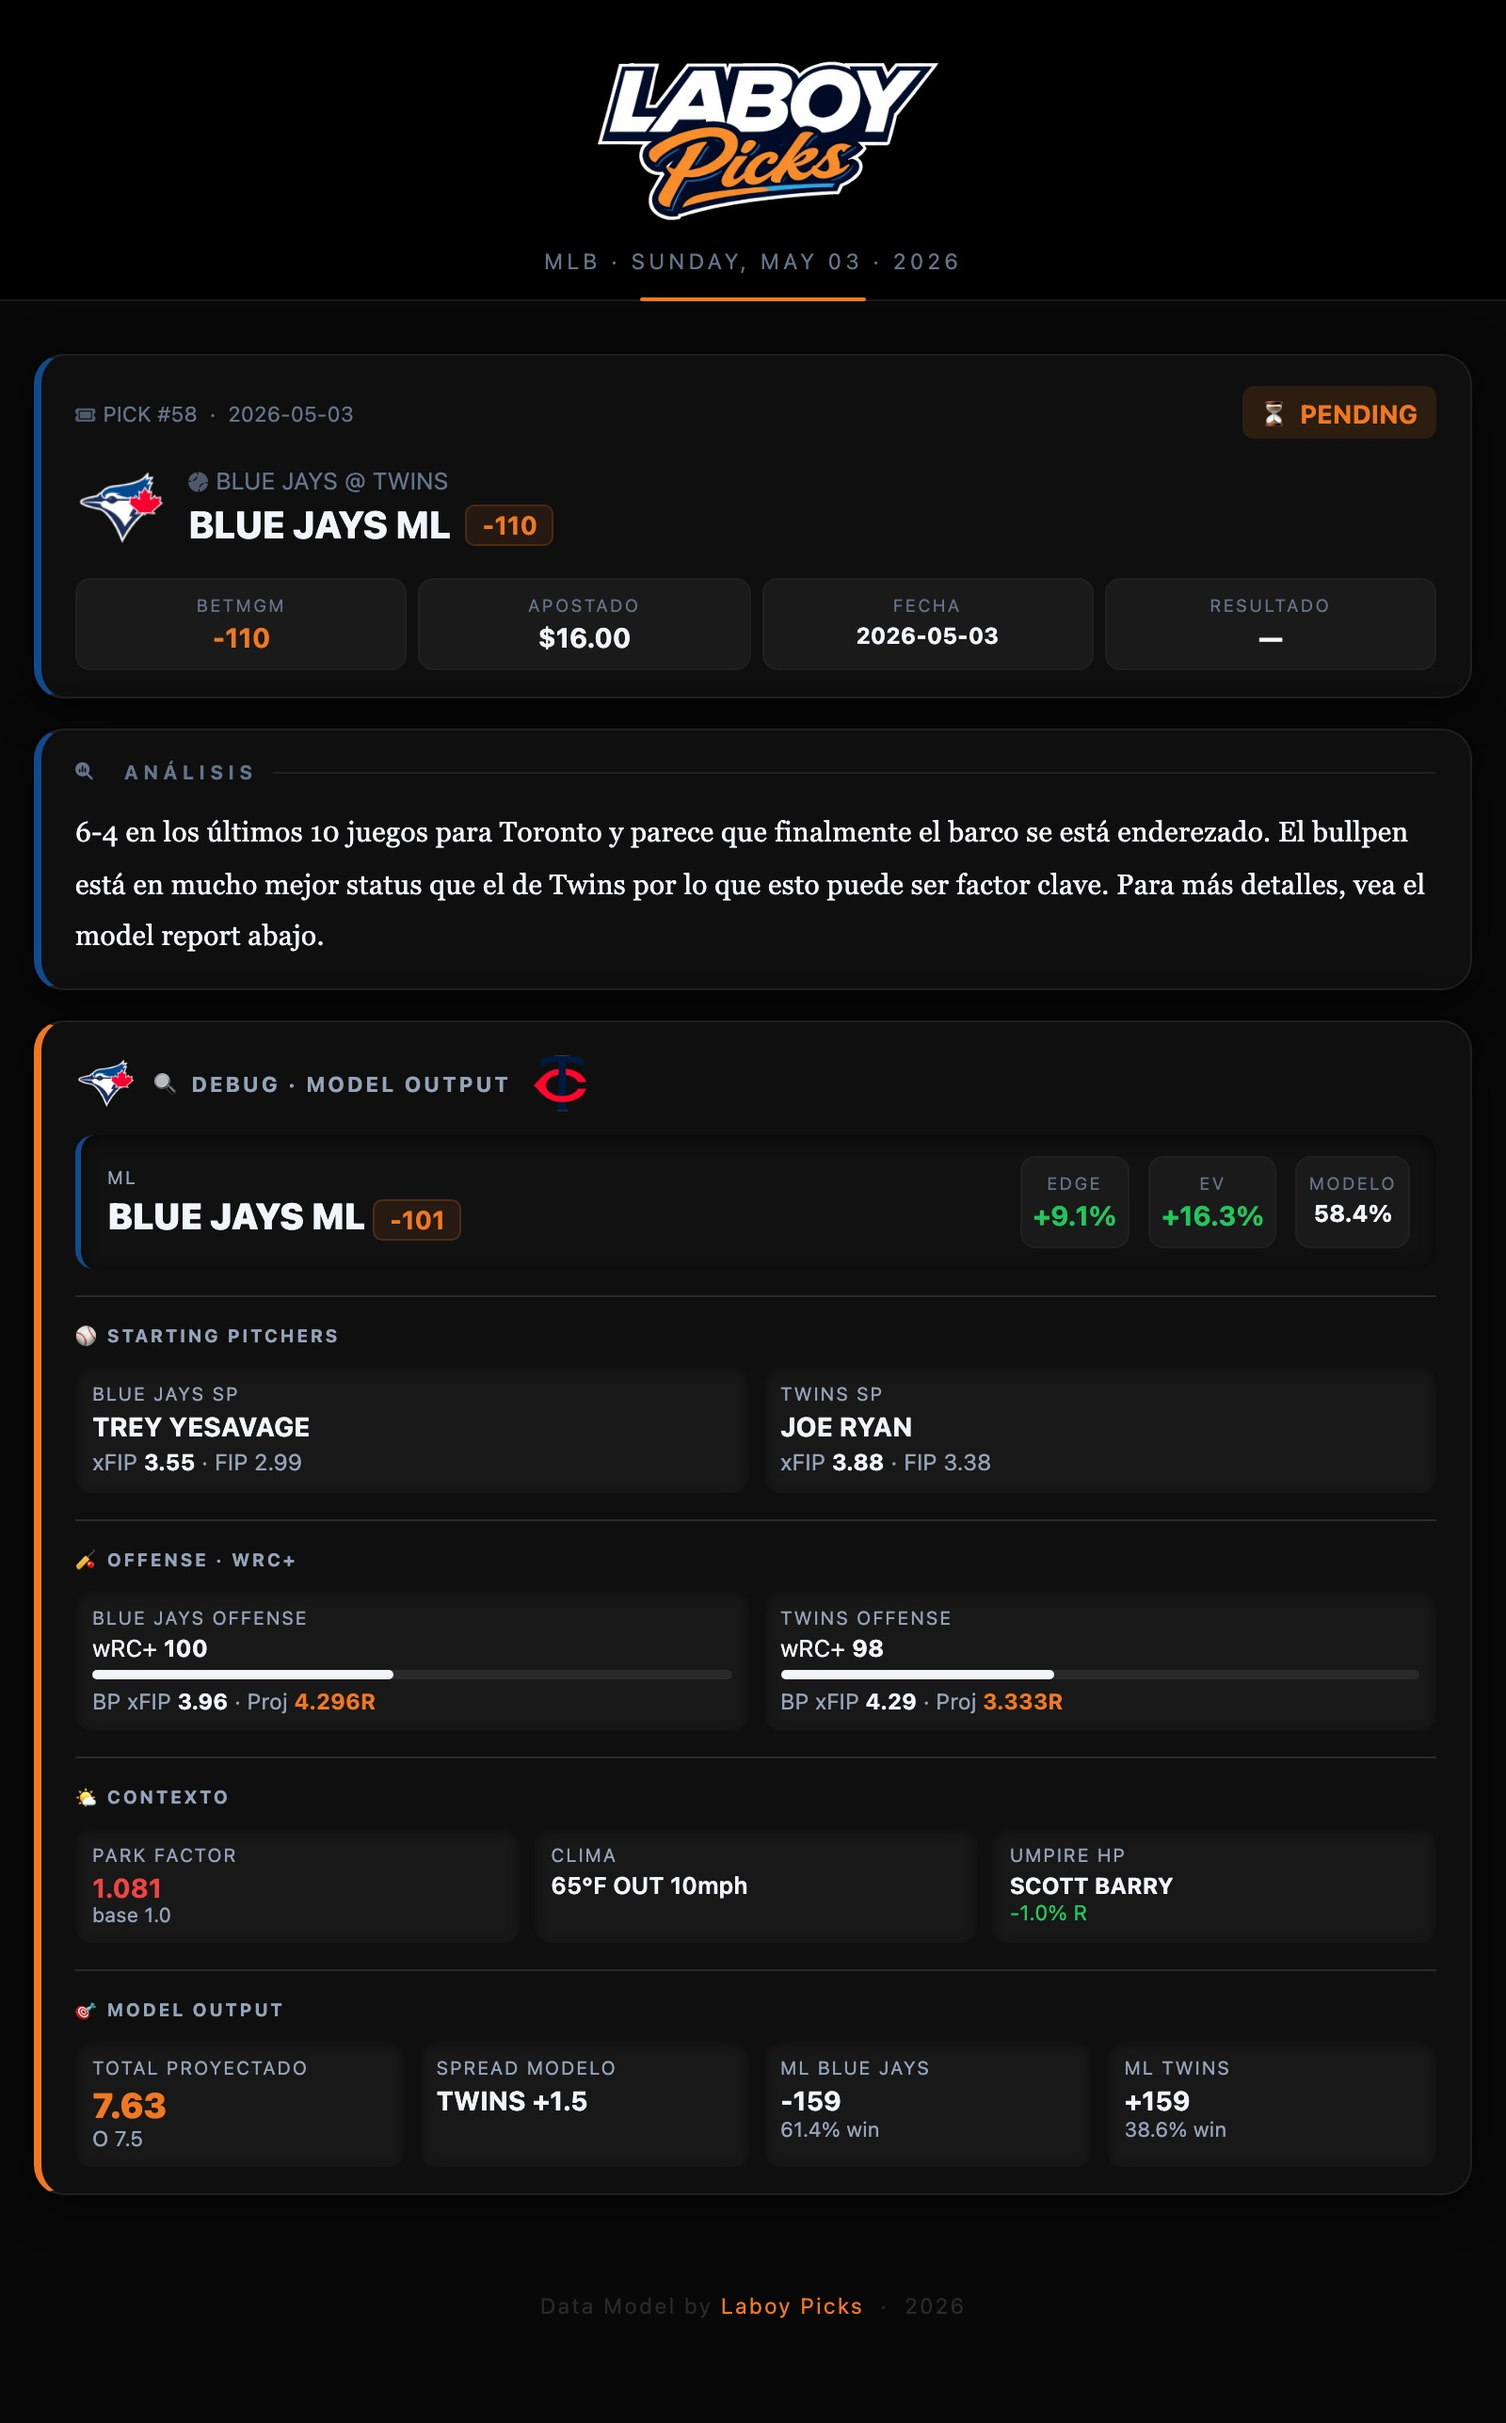
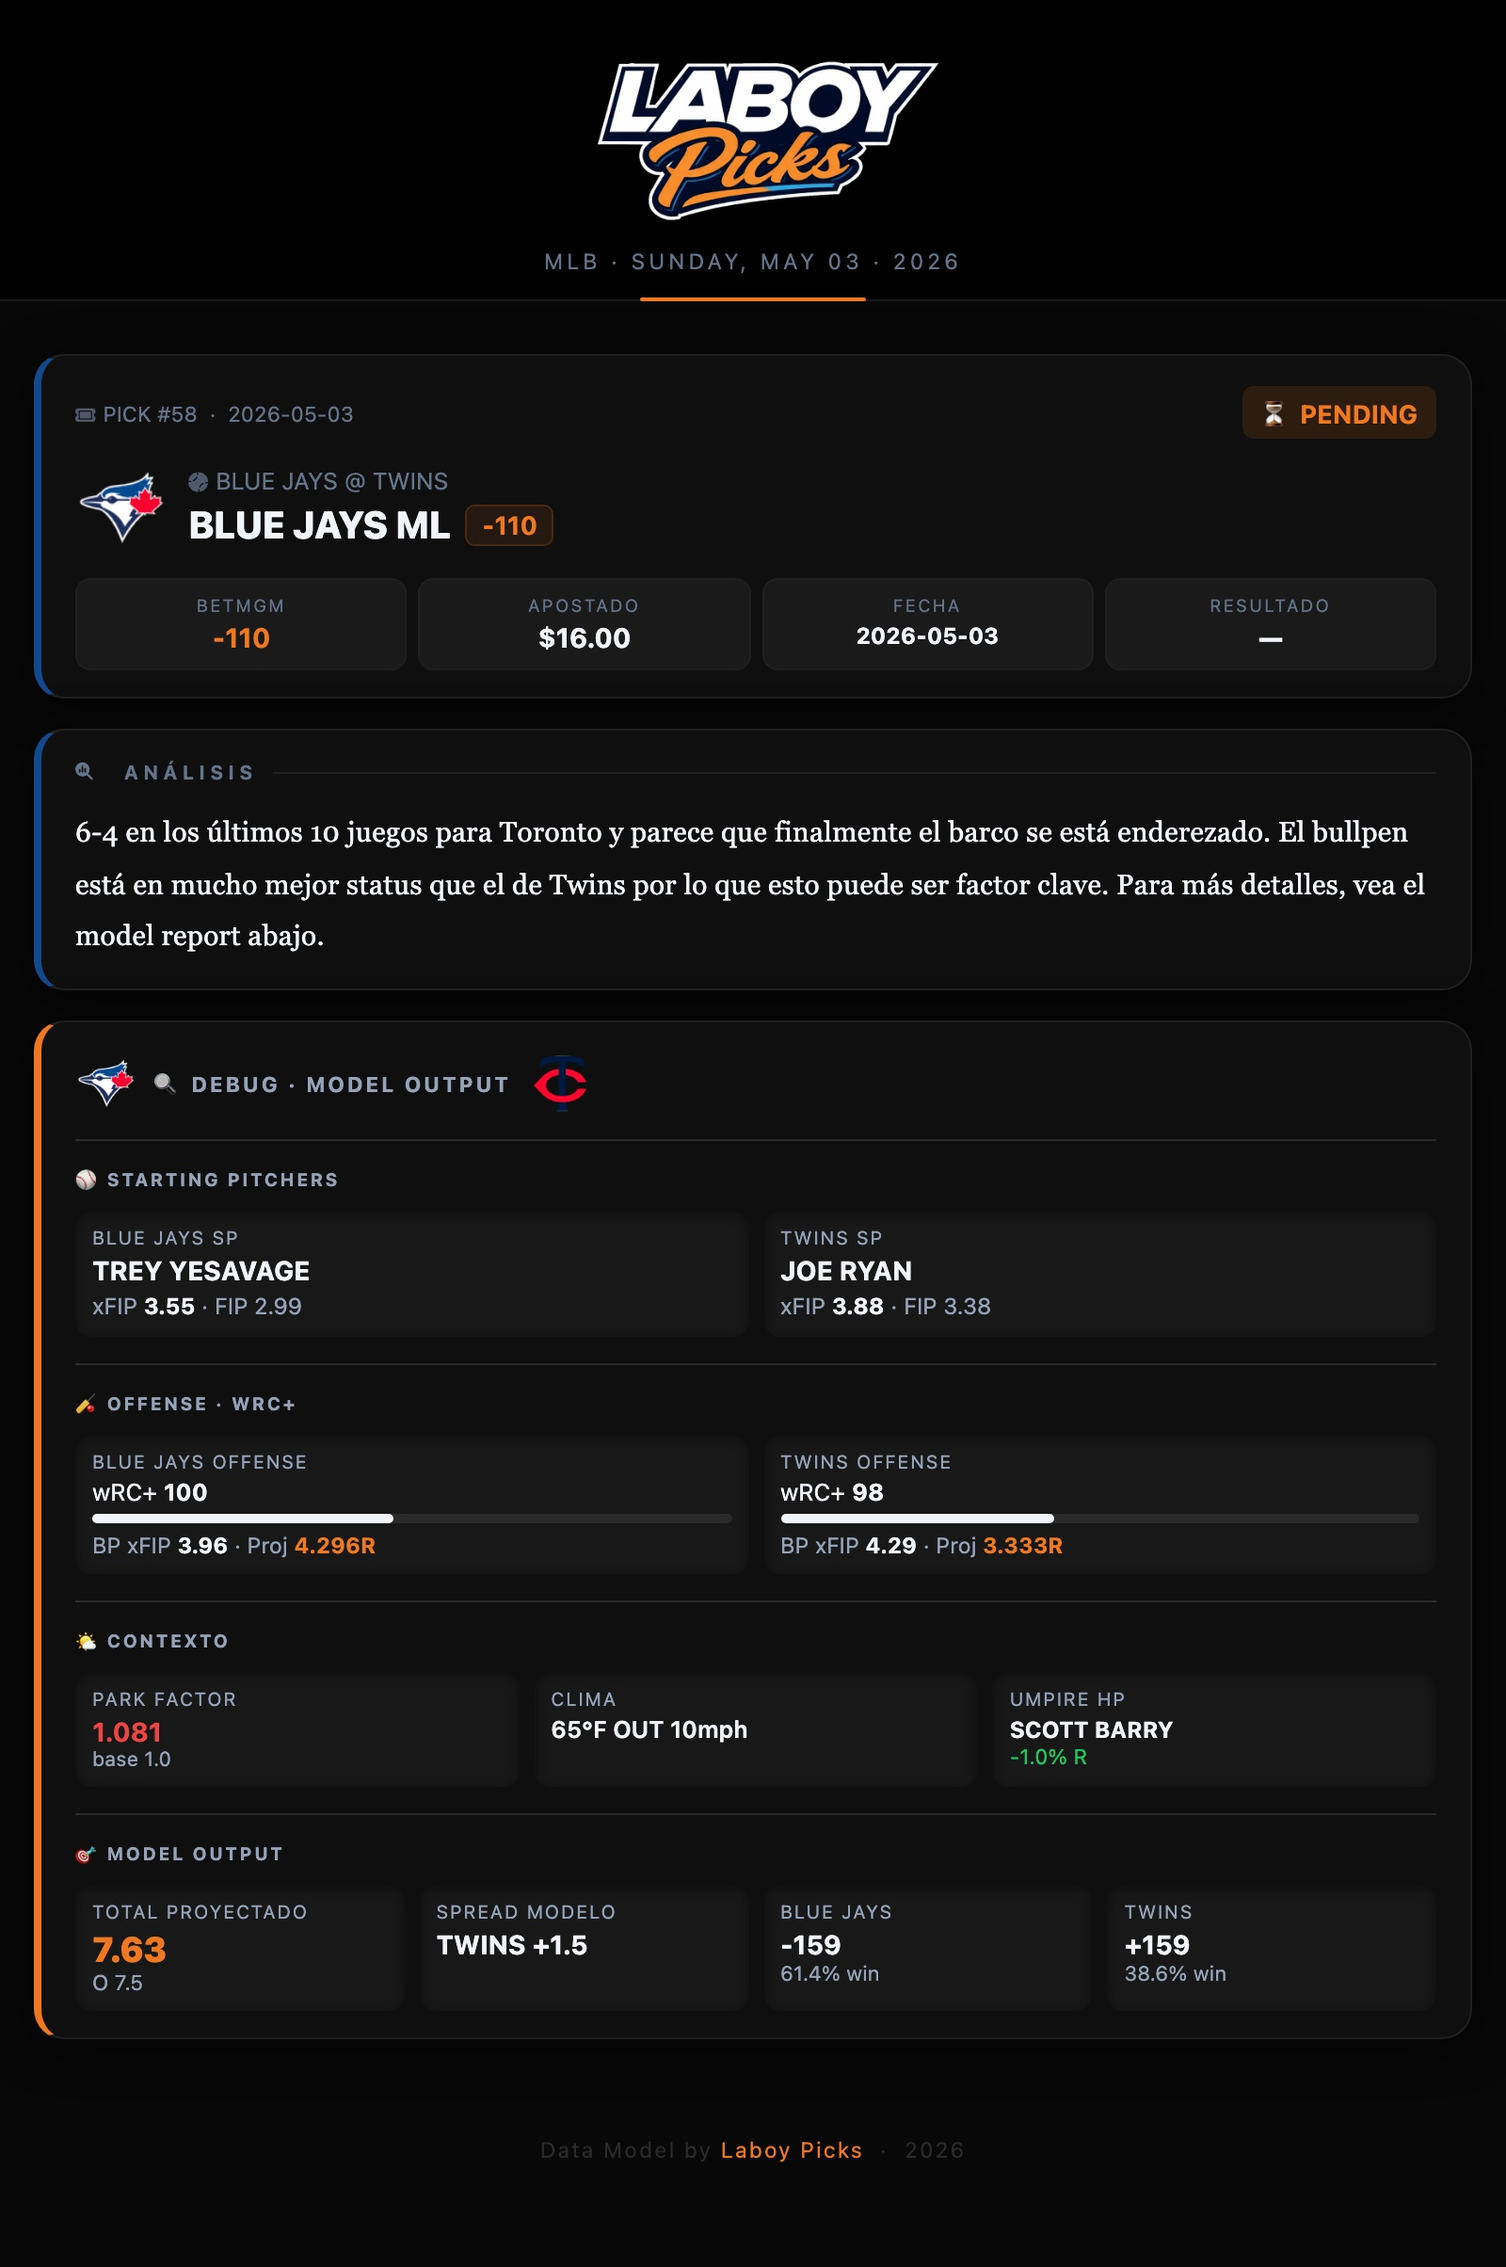
📊 MLB 2026-05-03 — Laboy Pick 2026-05-03 #58.html

diff --git a/Laboy Pick 2026-05-03 #58.html b/Laboy Pick 2026-05-03 #58.html
@@ -140,37 +140,10 @@
             </div>
             <img src="https://a.espncdn.com/combiner/i?img=/i/teamlogos/mlb/500/min.png&w=80&h=80&scale=crop&cquality=40" alt="TWINS" width="32" height="32" style="object-fit:contain" onerror="this.style.display:'none'">
           </div>
-          
-          <div style="background:#111111;border-left:3px solid #134A8E;border-radius:10px;
-                      padding:11px 14px;margin-bottom:8px;
-                      box-shadow:0 2px 8px rgba(0,0,0,0.6) inset">
-            <div style="display:flex;justify-content:space-between;align-items:center">
-              <div>
-                <div style="font-size:0.6rem;color:#94a3b8;letter-spacing:0.1em;margin-bottom:3px">ML</div>
-                <div style="font-size:1.2rem;font-weight:900;color:#f1f5f9">
-                  BLUE JAYS ML&nbsp;<span class="odds-badge">-101</span>
-                </div>
-              </div>
-              <div style="display:flex;gap:10px;text-align:center">
-                <div class="stat" style="min-width:52px">
-                  <div class="stat-label">EDGE</div>
-                  <div class="stat-val" style="color:#22c55e">+9.1%</div>
-                </div>
-                <div class="stat" style="min-width:52px">
-                  <div class="stat-label">EV</div>
-                  <div class="stat-val" style="color:#22c55e">+16.3%</div>
-                </div>
-                <div class="stat" style="min-width:52px">
-                  <div class="stat-label">MODELO</div>
-                  <div class="stat-val" style="font-size:0.78rem">58.4%</div>
-                </div>
-              </div>
-            </div>
-          </div>
           <div style="margin-top:14px;padding-top:12px;border-top:1px solid #2a2a2a"><div style="font-size:0.6rem;font-weight:700;letter-spacing:0.12em;color:#94a3b8;text-transform:uppercase;margin-bottom:8px">⚾&nbsp;Starting Pitchers</div><div style="display:grid;grid-template-columns:1fr 1fr;gap:8px"><div style="background:#181818;border-radius:8px;padding:9px;box-shadow:0 2px 6px rgba(0,0,0,0.5) inset"><div style="font-size:0.62rem;color:#94a3b8;margin-bottom:3px;text-transform:uppercase;letter-spacing:0.08em">BLUE JAYS SP </div><div style="font-size:0.88rem;font-weight:700;color:#f1f5f9">TREY YESAVAGE</div><div style="font-size:0.75rem;color:#94a3b8;margin-top:3px">xFIP <span style="color:#f1f5f9;font-weight:700">3.55</span> · FIP 2.99</div></div><div style="background:#181818;border-radius:8px;padding:9px;box-shadow:0 2px 6px rgba(0,0,0,0.5) inset"><div style="font-size:0.62rem;color:#94a3b8;margin-bottom:3px;text-transform:uppercase;letter-spacing:0.08em">TWINS SP </div><div style="font-size:0.88rem;font-weight:700;color:#f1f5f9">JOE RYAN</div><div style="font-size:0.75rem;color:#94a3b8;margin-top:3px">xFIP <span style="color:#f1f5f9;font-weight:700">3.88</span> · FIP 3.38</div></div></div></div>
           <div style="margin-top:14px;padding-top:12px;border-top:1px solid #2a2a2a"><div style="font-size:0.6rem;font-weight:700;letter-spacing:0.12em;color:#94a3b8;text-transform:uppercase;margin-bottom:8px">🏏&nbsp;Offense · wRC+</div><div style="display:grid;grid-template-columns:1fr 1fr;gap:8px"><div style="background:#181818;border-radius:8px;padding:9px;box-shadow:0 2px 6px rgba(0,0,0,0.5) inset"><div style="font-size:0.62rem;color:#94a3b8;margin-bottom:3px;text-transform:uppercase;letter-spacing:0.08em">BLUE JAYS Offense</div><div style="font-size:0.78rem;margin-bottom:2px">wRC+ <span style="color:#f1f5f9;font-weight:700">100</span></div><div style="background:#2a2a2a;border-radius:3px;height:5px;margin-top:4px"><div style="background:#f1f5f9;height:5px;border-radius:3px;width:47%"></div></div><div style="font-size:0.73rem;color:#94a3b8;margin-top:5px">BP xFIP <span style="color:#f1f5f9;font-weight:700">3.96</span>&nbsp;·&nbsp;Proj <span style="color:#f07820;font-weight:700">4.296R</span></div></div><div style="background:#181818;border-radius:8px;padding:9px;box-shadow:0 2px 6px rgba(0,0,0,0.5) inset"><div style="font-size:0.62rem;color:#94a3b8;margin-bottom:3px;text-transform:uppercase;letter-spacing:0.08em">TWINS Offense</div><div style="font-size:0.78rem;margin-bottom:2px">wRC+ <span style="color:#f1f5f9;font-weight:700">98</span></div><div style="background:#2a2a2a;border-radius:3px;height:5px;margin-top:4px"><div style="background:#f1f5f9;height:5px;border-radius:3px;width:43%"></div></div><div style="font-size:0.73rem;color:#94a3b8;margin-top:5px">BP xFIP <span style="color:#f1f5f9;font-weight:700">4.29</span>&nbsp;·&nbsp;Proj <span style="color:#f07820;font-weight:700">3.333R</span></div></div></div></div>
           <div style="margin-top:14px;padding-top:12px;border-top:1px solid #2a2a2a"><div style="font-size:0.6rem;font-weight:700;letter-spacing:0.12em;color:#94a3b8;text-transform:uppercase;margin-bottom:8px">🌤&nbsp;Contexto</div><div style="display:grid;grid-template-columns:1fr 1fr 1fr;gap:8px"><div style="background:#181818;border-radius:8px;padding:9px;box-shadow:0 2px 6px rgba(0,0,0,0.5) inset"><div style="font-size:0.62rem;color:#94a3b8;margin-bottom:3px;text-transform:uppercase;letter-spacing:0.08em">Park Factor</div><div style="font-size:0.88rem;font-weight:700;color:#ef4444">1.081</div><div style="font-size:0.67rem;color:#94a3b8">base 1.0</div></div><div style="background:#181818;border-radius:8px;padding:9px;box-shadow:0 2px 6px rgba(0,0,0,0.5) inset"><div style="font-size:0.62rem;color:#94a3b8;margin-bottom:3px;text-transform:uppercase;letter-spacing:0.08em">Clima</div><div style="font-size:0.78rem;font-weight:600;color:#f1f5f9">65°F  OUT 10mph</div></div><div style="background:#181818;border-radius:8px;padding:9px;box-shadow:0 2px 6px rgba(0,0,0,0.5) inset"><div style="font-size:0.62rem;color:#94a3b8;margin-bottom:3px;text-transform:uppercase;letter-spacing:0.08em">Umpire HP</div><div style="font-size:0.75rem;font-weight:700;color:#f1f5f9;line-height:1.3">SCOTT BARRY</div><div style="font-size:0.7rem;color:#22c55e">-1.0% R</div></div></div></div>
-          <div style="margin-top:14px;padding-top:12px;border-top:1px solid #2a2a2a"><div style="font-size:0.6rem;font-weight:700;letter-spacing:0.12em;color:#94a3b8;text-transform:uppercase;margin-bottom:8px">🎯&nbsp;Model Output</div><div style="display:grid;grid-template-columns:1fr 1fr 1fr 1fr;gap:8px"><div style="background:#181818;border-radius:8px;padding:9px;box-shadow:0 2px 6px rgba(0,0,0,0.5) inset"><div style="font-size:0.62rem;color:#94a3b8;margin-bottom:3px;text-transform:uppercase;letter-spacing:0.08em">Total Proyectado</div><div style="font-size:1.15rem;font-weight:900;color:#f07820">7.63</div><div style="font-size:0.7rem;color:#94a3b8">O 7.5</div></div><div style="background:#181818;border-radius:8px;padding:9px;box-shadow:0 2px 6px rgba(0,0,0,0.5) inset"><div style="font-size:0.62rem;color:#94a3b8;margin-bottom:3px;text-transform:uppercase;letter-spacing:0.08em">Spread Modelo</div><div style="font-size:0.88rem;font-weight:700;color:#f1f5f9">TWINS +1.5</div></div><div style="background:#181818;border-radius:8px;padding:9px;box-shadow:0 2px 6px rgba(0,0,0,0.5) inset"><div style="font-size:0.62rem;color:#94a3b8;margin-bottom:3px;text-transform:uppercase;letter-spacing:0.08em">ML BLUE JAYS</div><div style="font-size:0.88rem;font-weight:700;color:#f1f5f9">-159</div><div style="font-size:0.68rem;color:#94a3b8">61.4% win</div></div><div style="background:#181818;border-radius:8px;padding:9px;box-shadow:0 2px 6px rgba(0,0,0,0.5) inset"><div style="font-size:0.62rem;color:#94a3b8;margin-bottom:3px;text-transform:uppercase;letter-spacing:0.08em">ML TWINS</div><div style="font-size:0.88rem;font-weight:700;color:#f1f5f9">+159</div><div style="font-size:0.68rem;color:#94a3b8">38.6% win</div></div></div></div>
+          <div style="margin-top:14px;padding-top:12px;border-top:1px solid #2a2a2a"><div style="font-size:0.6rem;font-weight:700;letter-spacing:0.12em;color:#94a3b8;text-transform:uppercase;margin-bottom:8px">🎯&nbsp;Model Output</div><div style="display:grid;grid-template-columns:1fr 1fr 1fr 1fr;gap:8px"><div style="background:#181818;border-radius:8px;padding:9px;box-shadow:0 2px 6px rgba(0,0,0,0.5) inset"><div style="font-size:0.62rem;color:#94a3b8;margin-bottom:3px;text-transform:uppercase;letter-spacing:0.08em">Total Proyectado</div><div style="font-size:1.15rem;font-weight:900;color:#f07820">7.63</div><div style="font-size:0.7rem;color:#94a3b8">O 7.5</div></div><div style="background:#181818;border-radius:8px;padding:9px;box-shadow:0 2px 6px rgba(0,0,0,0.5) inset"><div style="font-size:0.62rem;color:#94a3b8;margin-bottom:3px;text-transform:uppercase;letter-spacing:0.08em">Spread Modelo</div><div style="font-size:0.88rem;font-weight:700;color:#f1f5f9">TWINS +1.5</div></div><div style="background:#181818;border-radius:8px;padding:9px;box-shadow:0 2px 6px rgba(0,0,0,0.5) inset"><div style="font-size:0.62rem;color:#94a3b8;margin-bottom:3px;text-transform:uppercase;letter-spacing:0.08em">BLUE JAYS</div><div style="font-size:0.88rem;font-weight:700;color:#f1f5f9">-159</div><div style="font-size:0.68rem;color:#94a3b8">61.4% win</div></div><div style="background:#181818;border-radius:8px;padding:9px;box-shadow:0 2px 6px rgba(0,0,0,0.5) inset"><div style="font-size:0.62rem;color:#94a3b8;margin-bottom:3px;text-transform:uppercase;letter-spacing:0.08em">TWINS</div><div style="font-size:0.88rem;font-weight:700;color:#f1f5f9">+159</div><div style="font-size:0.68rem;color:#94a3b8">38.6% win</div></div></div></div>
         </div>
 </div>
 <div class="footer">

diff --git a/dashboard-Lb9x3Kw.html b/dashboard-Lb9x3Kw.html
@@ -76,6 +76,6 @@
 <li><a href="https://laboywebsite-lgtm.github.io/mlb-picks/Laboy%20Model%20Card%202026-04-16-23ef385.html" target="_blank">2026-04-16</a></li>
 <li><a href="https://laboywebsite-lgtm.github.io/mlb-picks/Laboy%20Record%20Card%202026-04-15-39031bd.html" target="_blank">2026-04-15</a></li>
 </ul>
-  <p class="ts">Actualizado: 2026-05-03 12:16</p>
+  <p class="ts">Actualizado: 2026-05-03 12:22</p>
 </body>
 </html>
